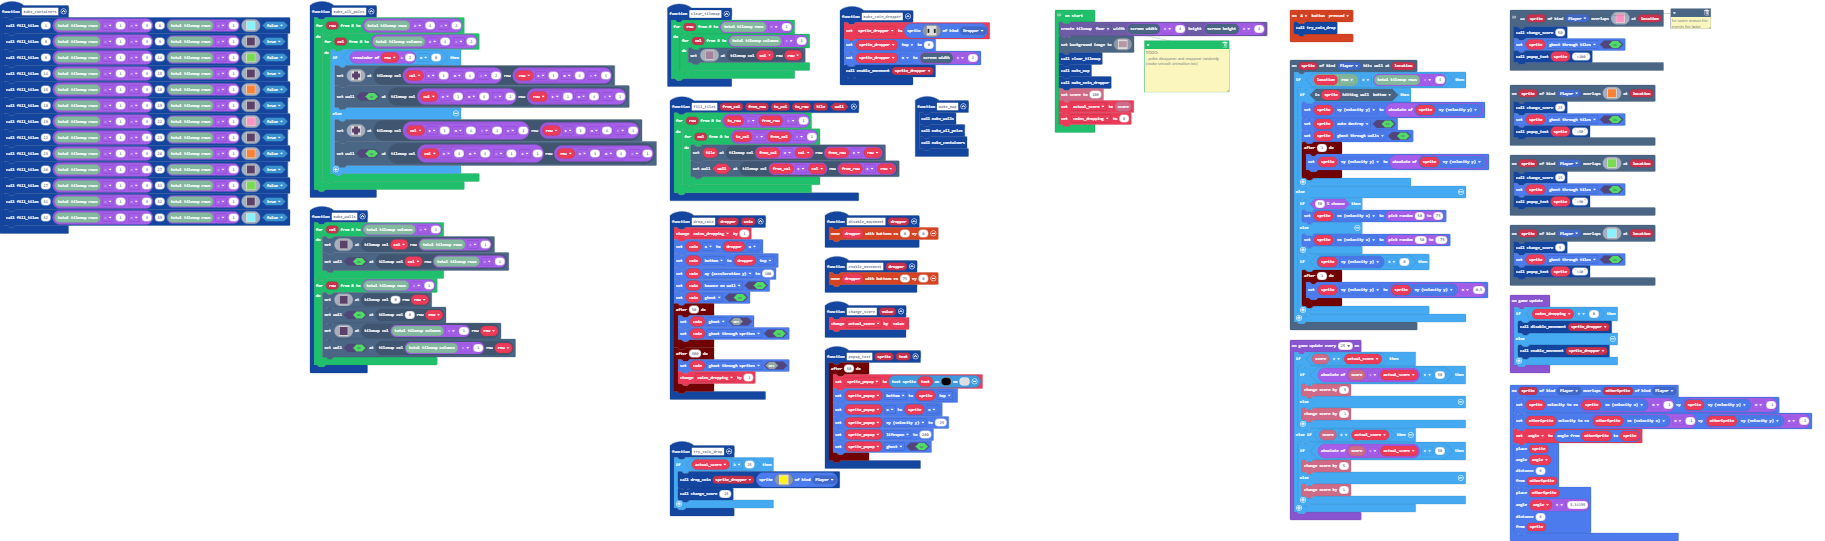
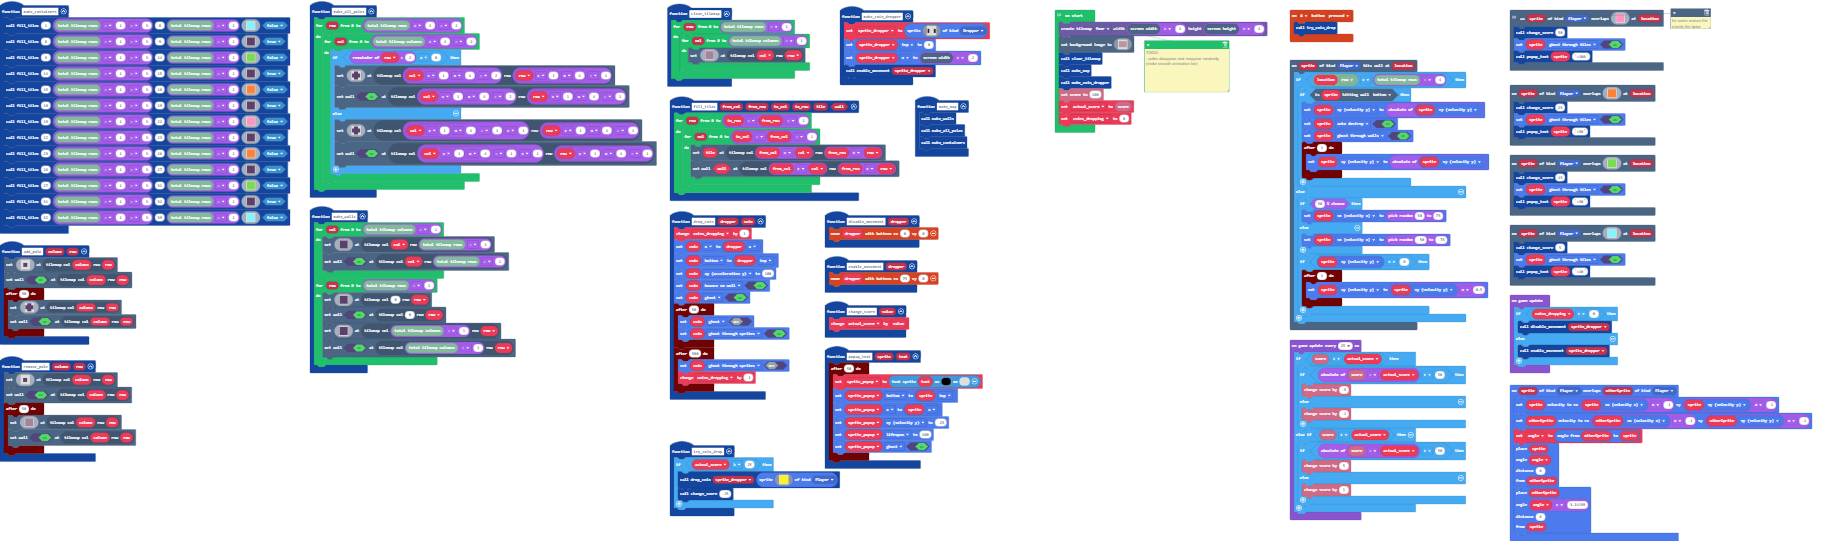
Add function to add and remove poles

Changed region(s): [[0.0, 0.4436, 0.0937, 0.8577]]

diff --git a/main.ts b/main.ts
@@ -91,6 +91,14 @@ function make_all_poles () {
 function disable_movement (dropper: Sprite) {
     controller.moveSprite(dropper, 0, 0)
 }
+function add_pole (column: number, row: number) {
+    tiles.setTileAt(tiles.getTileLocation(column, row), assets.image`partway_through_pole`)
+    tiles.setWallAt(tiles.getTileLocation(column, row), true)
+    timer.after(50, function () {
+        tiles.setTileAt(tiles.getTileLocation(column, row), assets.image`pole`)
+        tiles.setWallAt(tiles.getTileLocation(column, row), true)
+    })
+}
 function enable_movement (dropper: Sprite) {
     controller.moveSprite(dropper, 75, 0)
 }
@@ -172,6 +180,14 @@ scene.onOverlapTile(SpriteKind.Player, assets.image`50_points`, function (sprite
     sprite.setFlag(SpriteFlag.GhostThroughTiles, true)
     popup_text(sprite, "+50")
 })
+function remove_pole (column: number, row: number) {
+    tiles.setTileAt(tiles.getTileLocation(column, row), assets.image`partway_through_pole`)
+    tiles.setWallAt(tiles.getTileLocation(column, row), true)
+    timer.after(50, function () {
+        tiles.setTileAt(tiles.getTileLocation(column, row), assets.image`clear`)
+        tiles.setWallAt(tiles.getTileLocation(column, row), true)
+    })
+}
 // TODO: 
 // - poles disappear and reappear randomly (make smooth animation too)
 let angle = 0

diff --git a/images.g.ts b/images.g.ts
@@ -198,6 +198,13 @@ f f . . . . . . f f
 7 7 7 7 
 7 7 7 7 
 `;
+            case "hA%P]VHV":
+            case "partway_through_pole":return img`
+. . . . 
+. c c . 
+. c c . 
+. . . . 
+`;
         }
         return null;
     })
